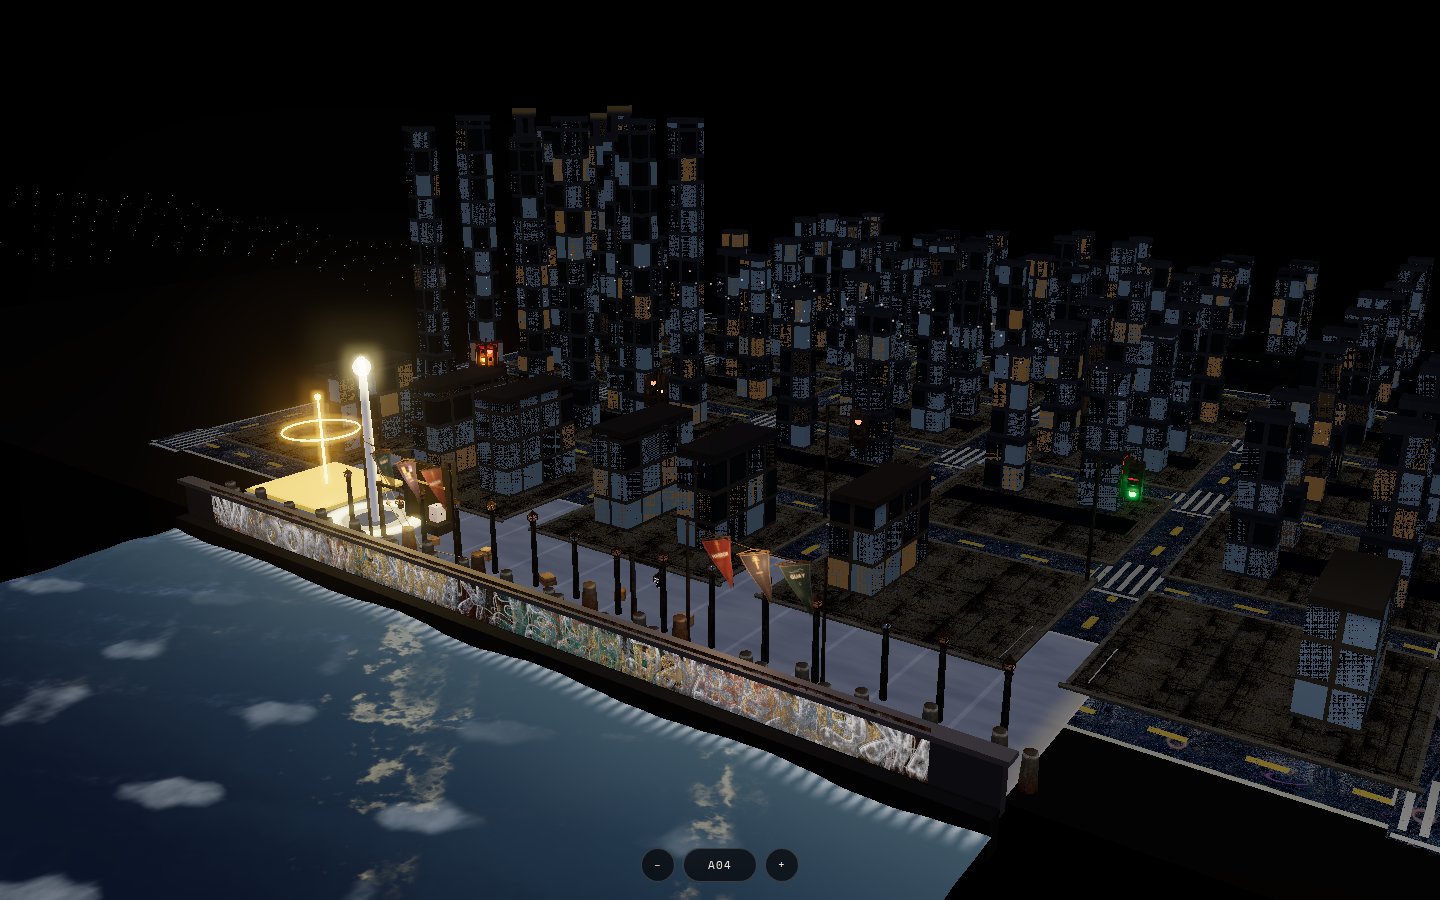
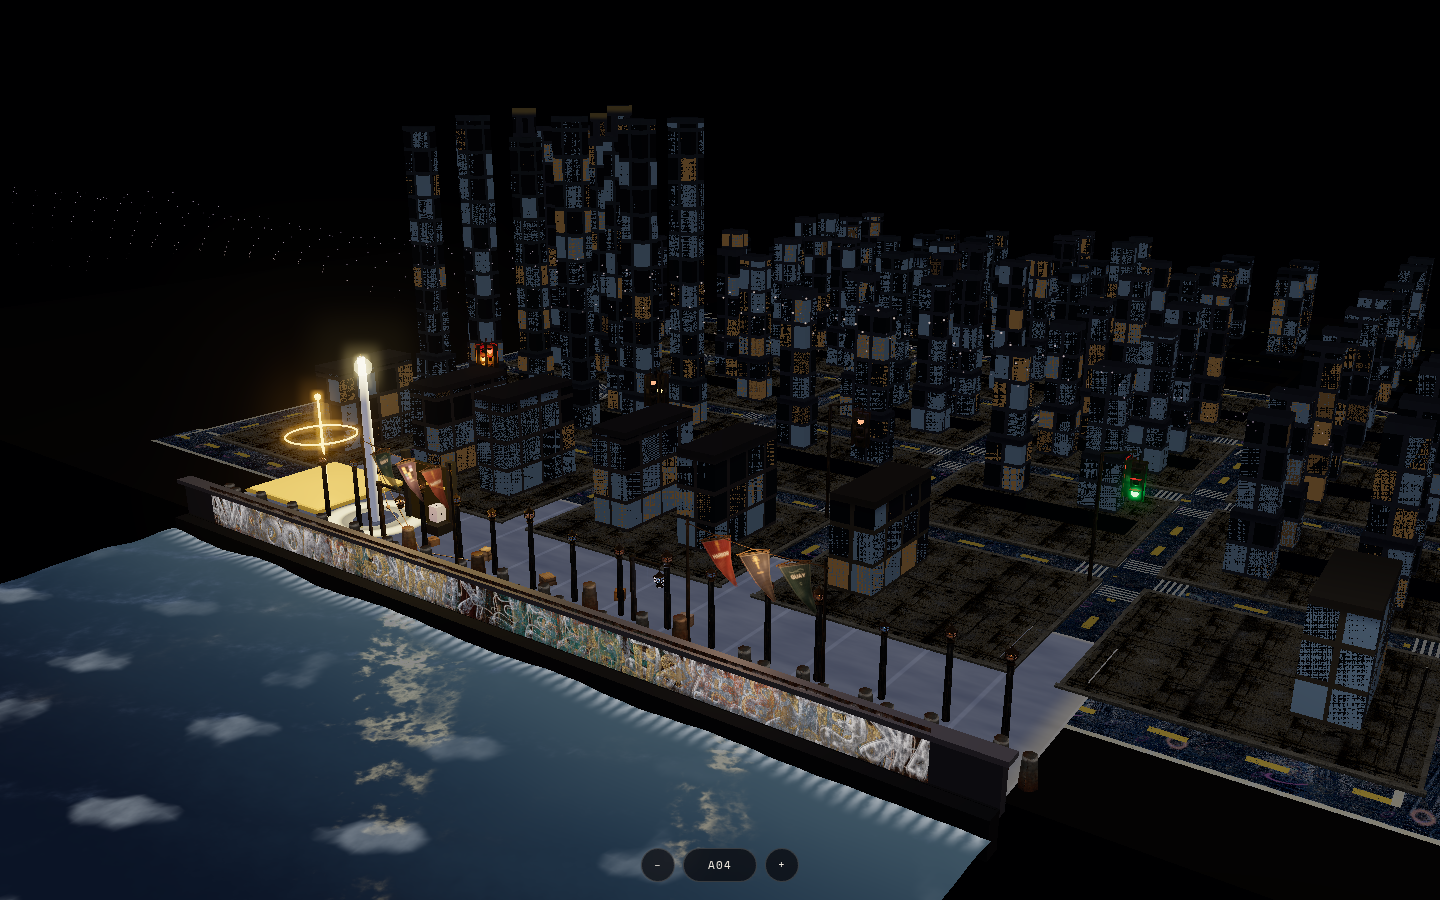
Harbor: NYC approach crosswalks and a wider sidewalk split
Keep STREET_W at 1.65. Sidewalks move to 0.30 so the carriageway is 1.05, and the quay-edge strip is 0.35. Crosswalks leave the intersection center: each leg with sidewalks on both sides gets a 0.70-deep band spanning the carriageway, with continental bars parallel to traffic.

diff --git a/harbor.html b/harbor.html
@@ -626,12 +626,14 @@ float fbm(vec2 p){
 // arXiv:1801.05741; mysimulator procedural buildings. Negative space = asphalt corridors.
 // Outer module matches main: STREET_W 1.65 is the gap between building faces.
 // Sidewalks sit inside that gap, so the lane you see is STREET_W − 2×SIDEWALK_W.
-// Main left a 0.65 carriageway (sidewalks 0.50). Thinner sidewalks open the
-// asphalt to ~1.21 without moving the blocks. The quay-edge strip stays inside
-// the same gap. Atlas sheets are unchanged — these constants only scale meshes.
+// Main left a 0.65 carriageway (sidewalks 0.50). 0.30 sidewalks open the asphalt
+// to 1.05 without moving the blocks. The quay-edge strip stays inside the same gap.
+// Atlas sheets are unchanged — these constants only scale meshes.
 const STREET_W = 1.65;
-const SIDEWALK_W = 0.22;
-const QUAY_WALK_W = 0.30;
+const SIDEWALK_W = 0.30;
+const QUAY_WALK_W = 0.35;
+// NYC approach-band depth: ~10–12 ft. Harbor is ~15.79 ft/unit, so ~0.70.
+const CROSSWALK_D = 0.70;
 const CURB_H = 0.09;
 const BLOCK_W = 5.0;   // lot area width (X) inside sidewalks
 const BLOCK_D = 4.4;   // lot area depth (Z)
@@ -745,13 +747,22 @@ const asphaltMat = new THREE.ShaderMaterial({
         col += grain * 0.03;
         float streak = pow(max(0.0, sin(vWorldPos.x * 3.2 + grain * 2.0 + uTime * 0.15)), 14.0);
         col += vec3(0.22, 0.28, 0.42) * streak * 0.35;
-        float along = vUv.x;
-        float across = abs(vUv.y - 0.5);
-        float dash = step(0.45, fract(along * 14.0));
-        float line = smoothstep(0.06, 0.02, across) * dash;
-        col = mix(col, vec3(0.72, 0.68, 0.42), line * 0.55);
-        float edge = smoothstep(0.04, 0.0, min(vUv.y, 1.0 - vUv.y));
-        col += vec3(0.08, 0.09, 0.12) * edge;
+        if (vKind > 0.5) {
+          // Continental bars run along uv.y, matching the crosswalk cell.
+          // The mesh aligns uv.y with traffic. Edge lines close the ladder.
+          float across = abs(fract(vUv.x * 5.0) - 0.5);
+          float bar = 1.0 - smoothstep(0.14, 0.26, across);
+          float edge = smoothstep(0.05, 0.0, min(vUv.y, 1.0 - vUv.y));
+          col = mix(col, vec3(0.93, 0.94, 0.91), max(bar, edge * 0.85));
+        } else {
+          float along = vUv.x;
+          float across = abs(vUv.y - 0.5);
+          float dash = step(0.45, fract(along * 14.0));
+          float line = smoothstep(0.06, 0.02, across) * dash;
+          col = mix(col, vec3(0.72, 0.68, 0.42), line * 0.55);
+          float edge = smoothstep(0.04, 0.0, min(vUv.y, 1.0 - vUv.y));
+          col += vec3(0.08, 0.09, 0.12) * edge;
+        }
       } else {
         col = streetAsphalt(vWorldPos);
         if (vKind > 0.5) {
@@ -870,7 +881,7 @@ const roadGeo = new THREE.PlaneGeometry(1, 1);
 const slabGeo = new THREE.BoxGeometry(1, 1, 1);
 slabGeo.translate(0, 0.5, 0);
 
-const ROAD_MAX = 64;
+const ROAD_MAX = 128;
 const SW_MAX = 200;
 const CURB_MAX = 160;
 // 0 = lane paint (center dash + edge lines), 1 = crosswalk cell
@@ -939,27 +950,60 @@ for (let r = 0; r <= GRID_ROWS; r++) {
   const z = gridOriginZ + STREET_W * 0.5 - r * cellD;
   const cx = 0;
   addRoad(cx, z, districtW + 0.4, STREET_W * 0.98, 0);
-  // crosswalk ticks near block corners (simple night dashes perpendicular)
-  for (let c = 0; c <= GRID_COLS; c++) {
-    const x = gridOriginX - STREET_W * 0.5 + c * cellW;
-    // Photo zebra across the N–S street. rotZ π/2: local X (uv.x, scale.x) runs
-    // along Z, local Y (uv.y) across X. Bars in the atlas are long in uv.x.
-    // Visual only — not a pavement collider.
-    if (roadN < ROAD_MAX) {
-      dummyR.position.set(x, 0.028, z);
-      dummyR.rotation.set(-Math.PI / 2, 0, Math.PI / 2);
-      dummyR.scale.set(2.15, STREET_W * 0.92, 1);
-      dummyR.updateMatrix();
-      roadKindAttr.setX(roadN, 1);
-      roads.setMatrixAt(roadN++, dummyR.matrix);
-    }
-  }
 }
 // Vertical streets (along Z)
 for (let c = 0; c <= GRID_COLS; c++) {
   const x = gridOriginX - STREET_W * 0.5 + c * cellW;
   const zMid = gridOriginZ - districtD * 0.5 + STREET_W * 0.5;
   addRoad(x, zMid, districtD + 0.2, STREET_W * 0.98, Math.PI / 2);
+}
+
+// NYC approach bands (MUTCD 3B / NYC Street Design Manual). One band per leg,
+// just outside the intersection, flush with the sidewalk's street face.
+// Span is the carriageway (curb to curb). Depth ~0.70 runs along the sidewalk.
+// The crosswalk cell's bars run along texture V (mesh uv.y). rotZ 0 puts
+// uv.y along Z; rotZ π/2 puts uv.y along X. Visual only — no collider.
+// Skip a leg with no sidewalk continuation.
+function addCrosswalk(cx, cz, span, depth, trafficAlongX) {
+  if (roadN >= ROAD_MAX) return;
+  dummyR.position.set(cx, 0.028, cz);
+  dummyR.rotation.set(-Math.PI / 2, 0, trafficAlongX ? Math.PI / 2 : 0);
+  dummyR.scale.set(span, depth, 1);
+  dummyR.updateMatrix();
+  roadKindAttr.setX(roadN, 1);
+  roads.setMatrixAt(roadN++, dummyR.matrix);
+}
+
+const carriageW = STREET_W - 2 * SIDEWALK_W;
+const halfCarriage = carriageW * 0.5;
+for (let r = 0; r <= GRID_ROWS; r++) {
+  for (let c = 0; c <= GRID_COLS; c++) {
+    const ix = gridOriginX - STREET_W * 0.5 + c * cellW;
+    const iz = gridOriginZ + STREET_W * 0.5 - r * cellD;
+    const west = c > 0;
+    const east = c < GRID_COLS;
+    const north = r > 0;
+    const south = r < GRID_ROWS;
+    // Across the N–S street. Traffic (and the bars) run along Z.
+    if (north && west && east) {
+      const zNear = iz + halfCarriage;
+      addCrosswalk(ix, zNear + CROSSWALK_D * 0.5, carriageW, CROSSWALK_D, false);
+    }
+    if (south && west && east) {
+      const walk = r === 0 ? QUAY_WALK_W : SIDEWALK_W;
+      const zNear = iz - (STREET_W * 0.5 - walk);
+      addCrosswalk(ix, zNear - CROSSWALK_D * 0.5, carriageW, CROSSWALK_D, false);
+    }
+    // Across the E–W street. Traffic (and the bars) run along X.
+    if (east && north && south) {
+      const xNear = ix + halfCarriage;
+      addCrosswalk(xNear + CROSSWALK_D * 0.5, iz, carriageW, CROSSWALK_D, true);
+    }
+    if (west && north && south) {
+      const xNear = ix - halfCarriage;
+      addCrosswalk(xNear - CROSSWALK_D * 0.5, iz, carriageW, CROSSWALK_D, true);
+    }
+  }
 }
 
 // Sidewalks + curbs around each block perimeter
@@ -8660,7 +8704,7 @@ function fillTourChecklist() {
     '• [x] Atlas path: skip edgeKill/edgeFade→wallCol (tan side-wall panes after cool127)',
     '• [x] Distance LOD impostor (lodFlat mix to flat back atlas 16–36u)',
     '• [x] Night-street gait: walk 0.50 / sprint 0.88 + head-bob',
-    '• [x] Street widths: carriageway ~1.21 · SIDEWALK_W 0.22 · QUAY_WALK_W 0.30 · STREET_W 1.65',
+    '• [x] Street widths: carriageway 1.05 · SIDEWALK_W 0.30 · QUAY_WALK_W 0.35 · STREET_W 1.65',
     '• [x] Collision chest = EYE_H*0.72 (was stale 1.15)',
     '• [x] Face-map default + V walk unchanged',
     '',

diff --git a/noctuary/district-massing.js b/noctuary/district-massing.js
@@ -162,7 +162,7 @@ function blockRect(bx, bz, g) {
 
 function resolveGrammar(options) {
   const streetW = options.streetW ?? 1.65;
-  const sidewalkW = options.sidewalkW ?? 0.22;
+  const sidewalkW = options.sidewalkW ?? 0.30;
   const blockW = options.blockW ?? 5;
   const blockD = options.blockD ?? 4.4;
   const cols = options.cols ?? 5;

diff --git a/noctuary-drills/A04-generate.md b/noctuary-drills/A04-generate.md
@@ -8,24 +8,30 @@ Hand-placed Harbor blocks (`placeBuilding` over the 5×4 lot roll) do not scale.
 ## What was practiced
 
 - **Height field.** Value noise + fbm. A slow octave sets the district ridge; a faster octave roughens lot to lot. The field is shifted by a seed, so two seeds are two districts. Quay row stays low. A ridge through the middle blocks becomes Signal towers. Hinterland stays shorter.
-- **Corridor mask.** Streets use the same cell as Harbor (`BLOCK + STREET`). The outer hard mask is the main street module, `STREET_W` 1.65 — the gap between building faces, not a wider district. Inside that gap the sidewalks are 0.22, so the asphalt carriageway is about 1.21 (`STREET_W − 2×SIDEWALK_W`), wider than main’s 0.65 lane and wider than the 1.16 alley. Every block cuts a north–south alley 1.16 wide. Every block inland of the quay also cuts a cross alley. Parcels sit behind a 0.52 inset, and each footprint must keep a 0.14 gap from every street and alley or it is shrunk until it does. Courts (low occupancy noise) stay empty. Dark alley ribbons are drawn with the massing pass, inside the block, so the cut reads even on the existing lot pads. A check recomputes the street bands, asserts an 8 cm clearance, and asserts the outer module is still 1.65 while the carriageway is the wider share of that gap.
+- **Corridor mask.** Streets use the same cell as Harbor (`BLOCK + STREET`). The outer hard mask is the main street module, `STREET_W` 1.65 — the gap between building faces, not a wider district. Inside that gap the sidewalks are 0.30, so the asphalt carriageway is 1.05 (`STREET_W − 2×SIDEWALK_W`), wider than main’s 0.65 lane. Alleys stay 1.16 inside the block. Every block cuts a north–south alley. Every block inland of the quay also cuts a cross alley. Parcels sit behind a 0.52 inset, and each footprint must keep a 0.14 gap from every street and alley or it is shrunk until it does. Courts (low occupancy noise) stay empty. Dark alley ribbons are drawn with the massing pass, inside the block, so the cut reads even on the existing lot pads. A check recomputes the street bands, asserts an 8 cm clearance, and asserts the outer module is still 1.65 while the carriageway is 1.05.
 - **Sliced mass.** A stack is a fixed 1.48 podium, then a shaft at 70% of that footprint. A crown is allowed only on the tallest lot of a Signal ridge block (not Quay, not the hinterland belt), one crown per block, and the crown is 72% of the shaft so it cannot spill past it. The hard mask runs again on every slice.
 
 The mass is one `InstancedMesh` (`harbor-district-mass`) with a night façade shader: concrete body, 0.76 m fenestra cells, dark mullions, cool glass, rare warm panes. Extension streets past the hand grid are plain night asphalt in this module. They do not bind `uStreetAtlas`.
 
 ## Wider asphalt, same block spacing
 
-The street module stays the main gap: `STREET_W` 1.65. Building faces do not move. Sidewalks sit inside that gap, so the lane you see is `STREET_W − 2×SIDEWALK_W`. Main used 0.50 sidewalks and left a 0.65 carriageway, narrower than the 1.16 alley. The sidewalks are now 0.22, which opens the asphalt to about 1.21. Alleys stay the narrow cut inside the block.
+The street module stays the main gap: `STREET_W` 1.65. Building faces do not move. Sidewalks sit inside that gap, so the lane you see is `STREET_W − 2×SIDEWALK_W`. Main used 0.50 sidewalks and left a 0.65 carriageway. Sidewalks are now 0.30, which opens the asphalt to 1.05. That is still much wider than 0.65, and the walk is wide enough to read. Alleys stay the narrow cut inside the block.
 
 | Lane | Main | Now |
 |---|---|---|
 | `STREET_W` (outer gap, hard mask) | 1.65 | 1.65 |
-| `SIDEWALK_W` | 0.50 | 0.22 |
-| Carriageway (`STREET_W − 2×SIDEWALK_W`) | 0.65 | ~1.21 |
-| Quay-edge walk (north face of the first row) | 0.50 | 0.30 |
+| `SIDEWALK_W` | 0.50 | 0.30 |
+| Carriageway (`STREET_W − 2×SIDEWALK_W`) | 0.65 | 1.05 |
+| Quay-edge walk (north face of the first row) | 0.50 | 0.35 |
 | Alley | 1.16 | 1.16 |
 
-The quay-edge walk is a strip on the water side of the first row. It stays inside the 1.65 gap, so it does not push the promenade or the buildings. Hand-placed asphalt, sidewalks, curbs, and crosswalks use these constants, and the generator mask uses the same outer `STREET_W` and sidewalk split. Atlas cell sampling is unchanged.
+The quay-edge walk is a 0.35 strip on the water side of the first row. It stays inside the 1.65 gap, so it does not push the promenade or the buildings. Hand-placed asphalt, sidewalks, curbs, and crosswalks use these constants, and the generator mask uses the same outer `STREET_W` and sidewalk split. Atlas cell sampling is unchanged.
+
+## Crosswalks
+
+Marked crossings follow the NYC approach-band rule (Street Design Manual pavement markings, MUTCD 3B, NYSDOT HDM §18.7.7–18.7.8). They sit at grid intersections only, not in the middle of the box and not midblock.
+
+Each leg that has a sidewalk on both sides of the street gets one band. The band is the continuation of that sidewalk across the carriageway: its inner edge lines up with the sidewalk’s street face, and the band lies just outside the intersection. The span is the carriageway, `STREET_W − 2×SIDEWALK_W` (1.05), curb to curb. The depth along the sidewalk is 0.70 (~11 ft at 15.79 ft/unit). Continental bars run parallel to traffic on that approach. A leg with no far sidewalk — the water edge of the quay street, and the outside of the district — is left unmarked. The paint is visual only.
 
 ## Toggle
 
@@ -49,9 +55,13 @@ node noctuary/district-massing.check.mjs
 
 ## Harbor view
 
-Same camera and the same building spacing. Left is main’s split (sidewalk 0.50, carriageway 0.65). Right keeps that outer gap and gives the lane the width: sidewalk 0.22, carriageway about 1.21, quay-edge strip 0.30.
+Same camera and the same building spacing. Left is main’s split (sidewalk 0.50, carriageway 0.65). Right keeps that outer gap: sidewalk 0.30, carriageway 1.05, quay-edge strip 0.35.
 
-![Harbor streets before and after the wider module](a04-harbor-streets-before-after.png)
+![Harbor streets, same spacing, wider asphalt](a04-harbor-streets-before-after.png)
+
+An interior intersection. Left is the old pad in the middle of the box. Right is four approach bands, each spanning the carriageway, with bars parallel to traffic:
+
+![Harbor intersection crosswalks, before and after](a04-harbor-crosswalk-approaches.png)
 
 Seed `A04`, massing on. The asphalt ribbon is the wide part of the same gap; the seed bar is the only added chrome:
 
